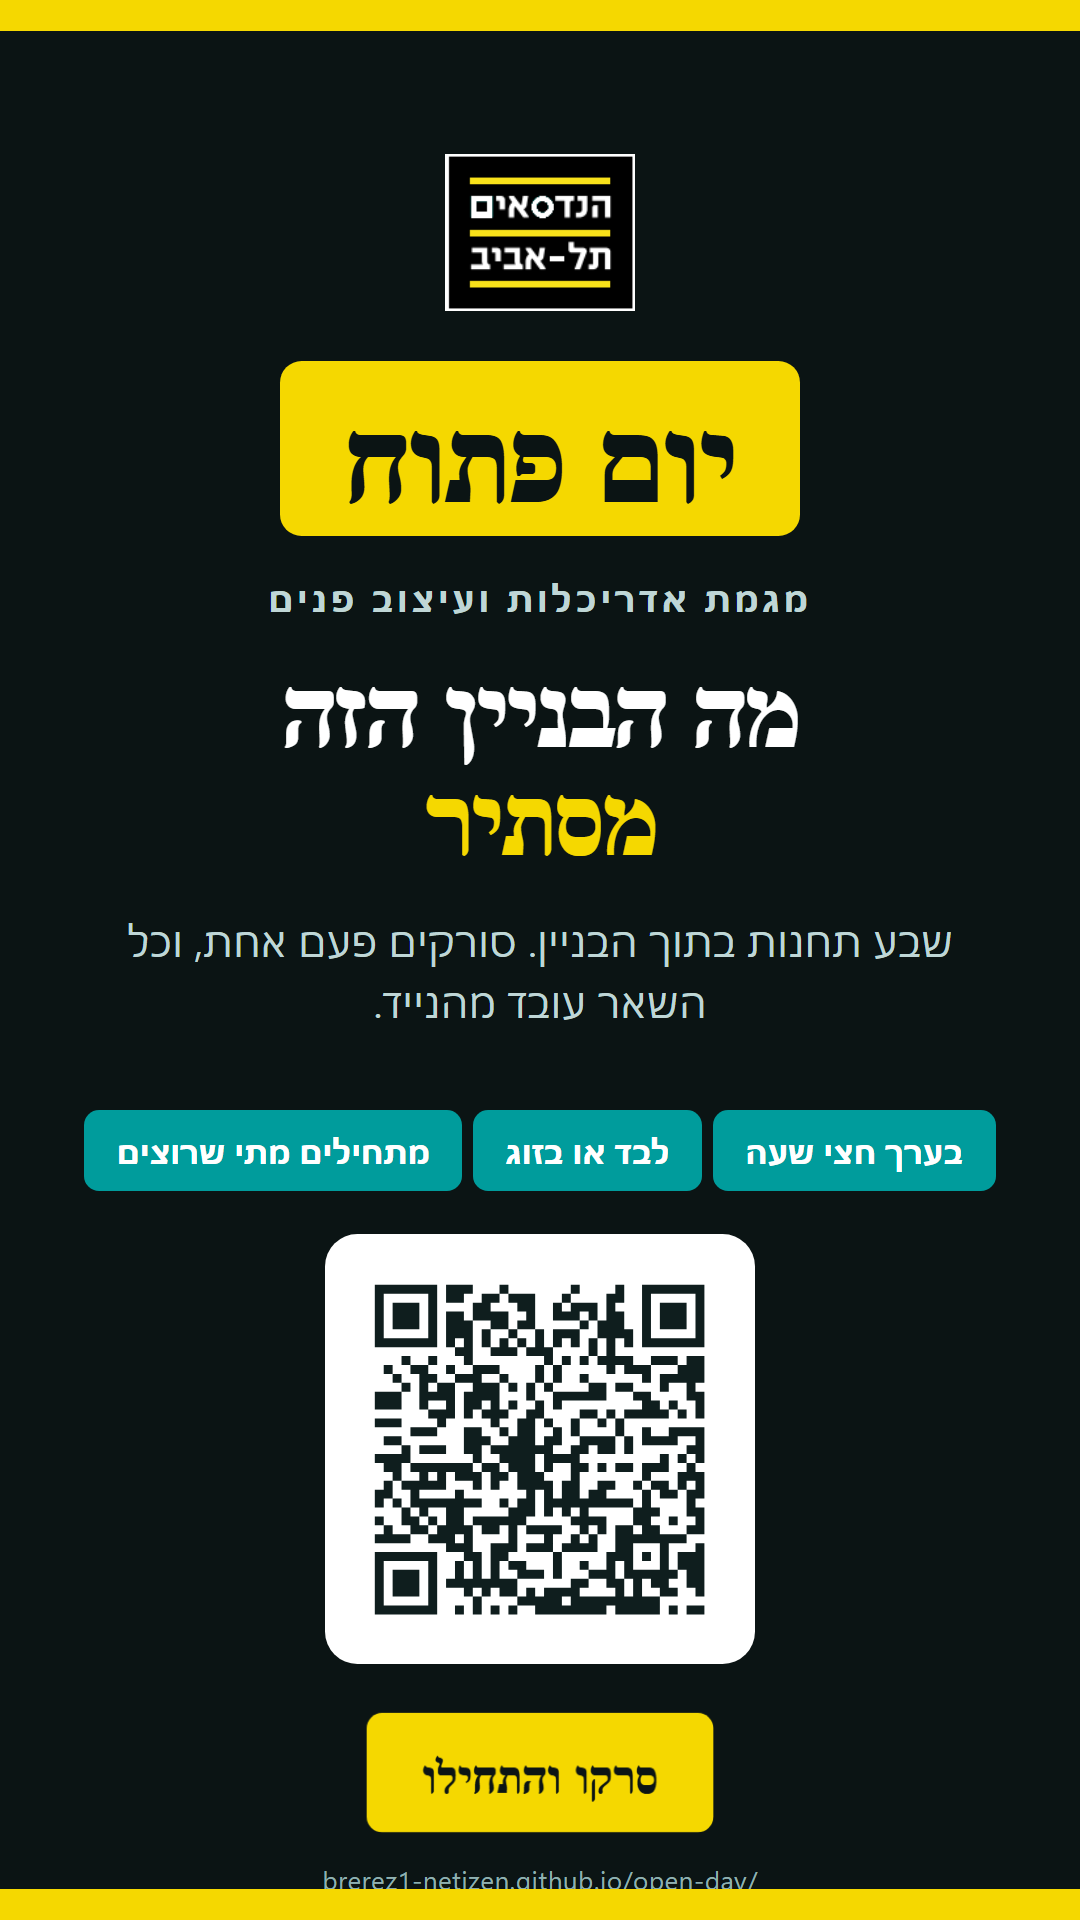
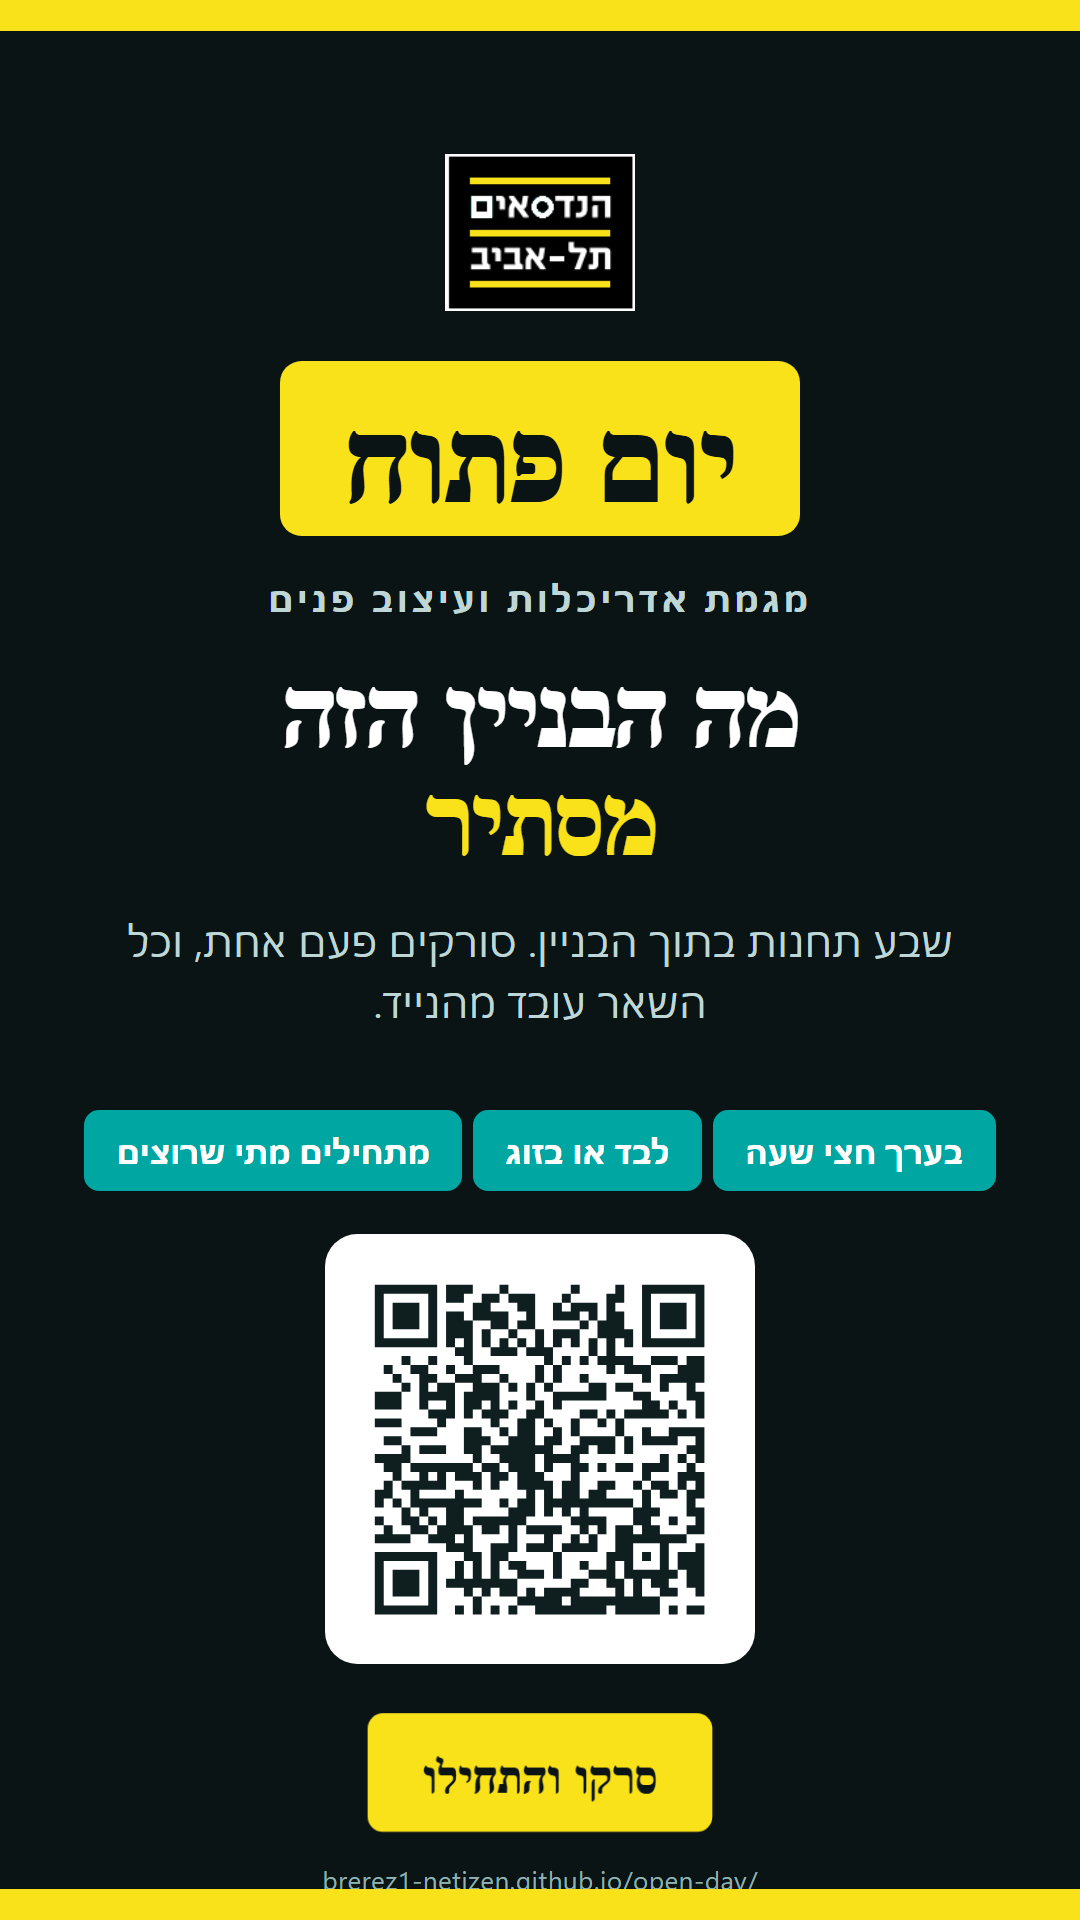
יישור לספר המותג: ערכי הצבע הרשמיים בכל החומרים
טורקיז 00A7A2 (Pantone 3262C) וצהוב F9E21A (Pantone 115C) במקום
הערכים שנדגמו מהלוגו. המחוללים עברו ל-tools/ כדי לשרוד ניקוי זמניים.

diff --git a/index.html b/index.html
@@ -16,12 +16,12 @@
     --ink-faint:  #7B8E8E;
     --rule:       #BCDCDC;
     --rule-soft:  #DCEDED;
-    --mark:       #00807F;
+    --mark:       #008A85;
     --mark-ink:   #FFFFFF;
     --mark-soft:  #E2F4F4;
-    --accent:     #F5D800;
+    --accent:     #F9E21A;
     --accent-ink: #1A1600;
-    --head-bg:    #009C9C;
+    --head-bg:    #00A7A2;
     --head-ink:   #FFFFFF;
   }
   @media (prefers-color-scheme: dark) {
@@ -34,12 +34,12 @@
       --ink-faint:  #6C8584;
       --rule:       #2B3F3E;
       --rule-soft:  #1B2C2B;
-      --mark:       #2ED3D0;
+      --mark:       #3FD9D4;
       --mark-ink:   #05100F;
       --mark-soft:  #10302F;
-      --accent:     #FFE23D;
+      --accent:     #FFEA4D;
       --accent-ink: #1A1600;
-      --head-bg:    #00706F;
+      --head-bg:    #00726F;
       --head-ink:   #FFFFFF;
     }
   }
@@ -52,12 +52,12 @@
     --ink-faint:  #6C8584;
     --rule:       #2B3F3E;
     --rule-soft:  #1B2C2B;
-    --mark:       #2ED3D0;
+    --mark:       #3FD9D4;
     --mark-ink:   #05100F;
     --mark-soft:  #10302F;
-    --accent:     #FFE23D;
+    --accent:     #FFEA4D;
     --accent-ink: #1A1600;
-    --head-bg:    #00706F;
+    --head-bg:    #00726F;
     --head-ink:   #FFFFFF;
   }
 

diff --git a/sargel-print.html b/sargel-print.html
@@ -3,7 +3,7 @@
 <title>סרגל קיר - גובה העיניים</title>
 <style>
   @page { size: 400mm 1700mm; margin: 0; }
-  :root { --teal:#009C9C; --yellow:#F5D800; --ink:#0F1E1E; --grey:#8A9A9A; }
+  :root { --teal:#00A7A2; --yellow:#F9E21A; --ink:#0F1E1E; --grey:#8A9A9A; }
   * { box-sizing:border-box; margin:0; padding:0; }
   html, body { width:400mm; height:1700mm; background:#fff; color:var(--ink);
     font-family: system-ui, "Segoe UI", "Arial Hebrew", Arial, sans-serif;

diff --git a/tv.html b/tv.html
@@ -3,7 +3,7 @@
 <meta name="viewport" content="width=device-width, initial-scale=1">
 <title>מה הבניין הזה מסתיר - מסך כניסה</title>
 <style>
-  :root { --teal:#009C9C; --yellow:#F5D800; --ink:#0B1414; }
+  :root { --teal:#00A7A2; --yellow:#F9E21A; --ink:#0B1414; }
   * { box-sizing:border-box; margin:0; padding:0; }
   html, body { height:100%; background:var(--ink); overflow:hidden;
     font-family: system-ui, "Segoe UI", "Arial Hebrew", Arial, sans-serif; }
